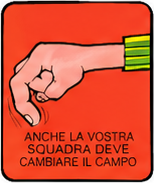
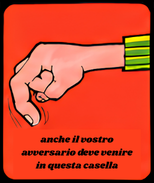
tried making the images better

diff --git a/src/main/java/giocoscudetto/model/impl/ResultBox.java b/src/main/java/giocoscudetto/model/impl/ResultBox.java
@@ -18,7 +18,7 @@ public class ResultBox implements Boxes{
     public ResultBox() {
         this.images = new ArrayList<>();
         try {
-            this.images.add(ImageIO.read(new File("caselle_precise/casella_28.png")));
+            this.images.add(ImageIO.read(new File("caselle_precise/casella_3.png")));
             
         } catch (IOException e) {
             e.printStackTrace();
